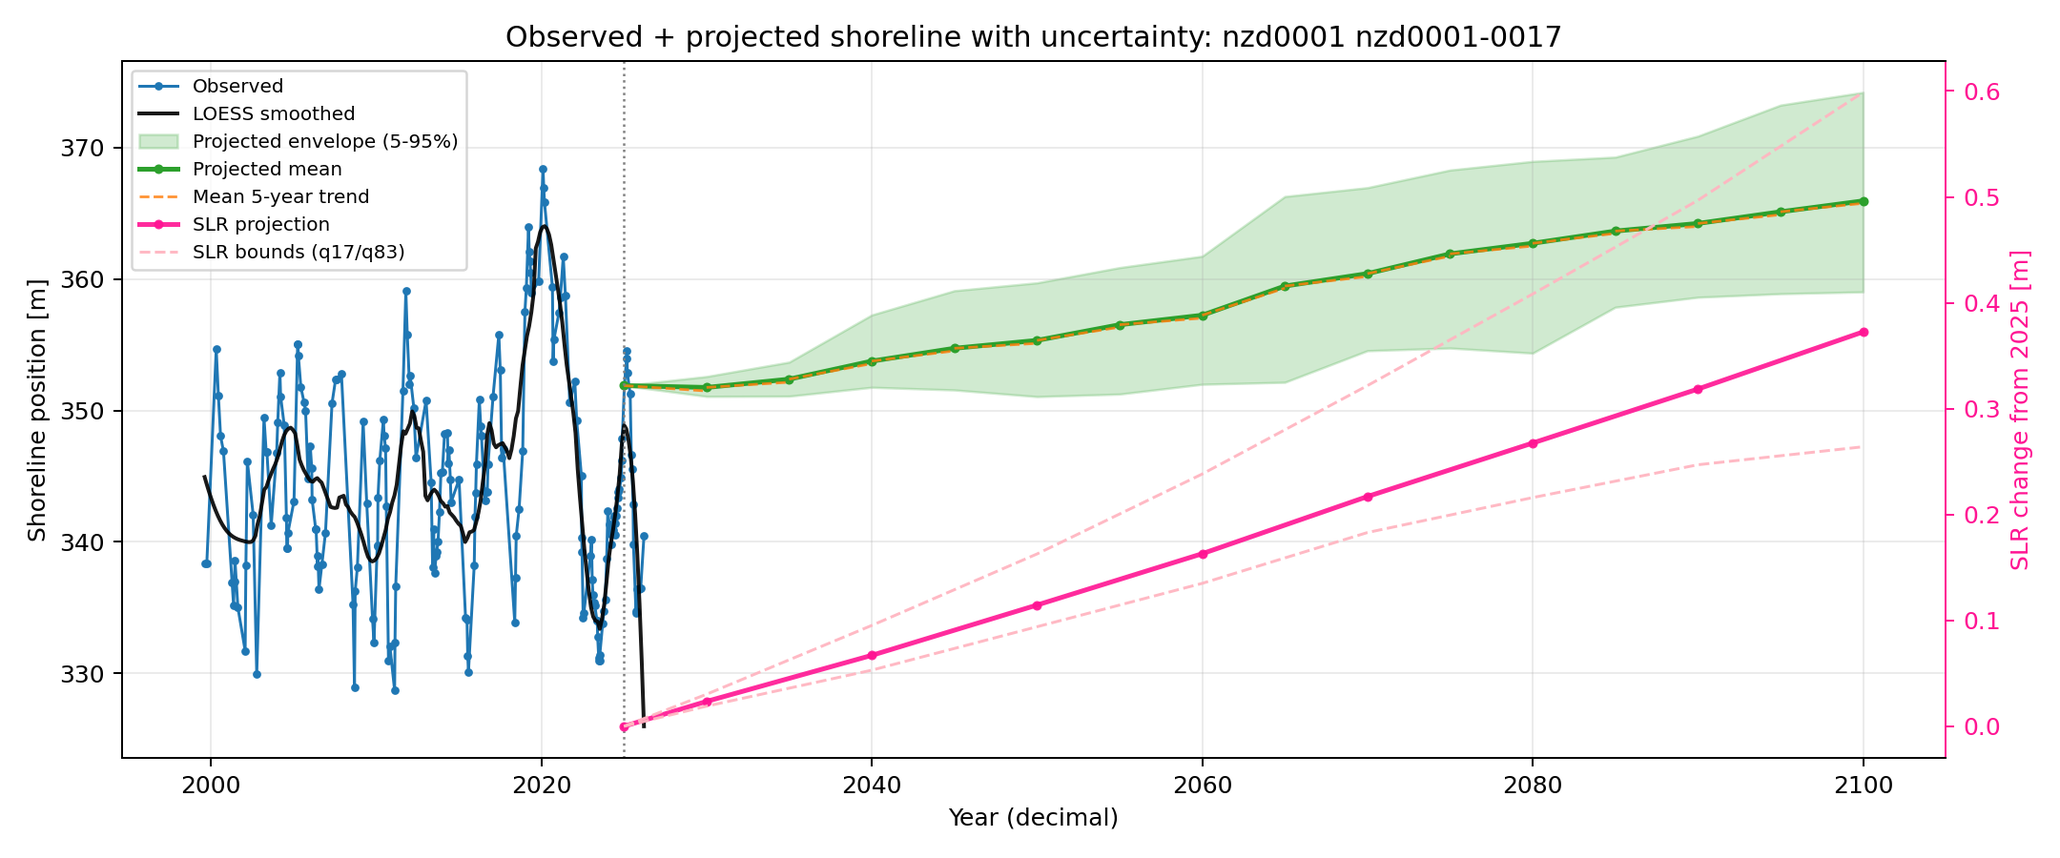
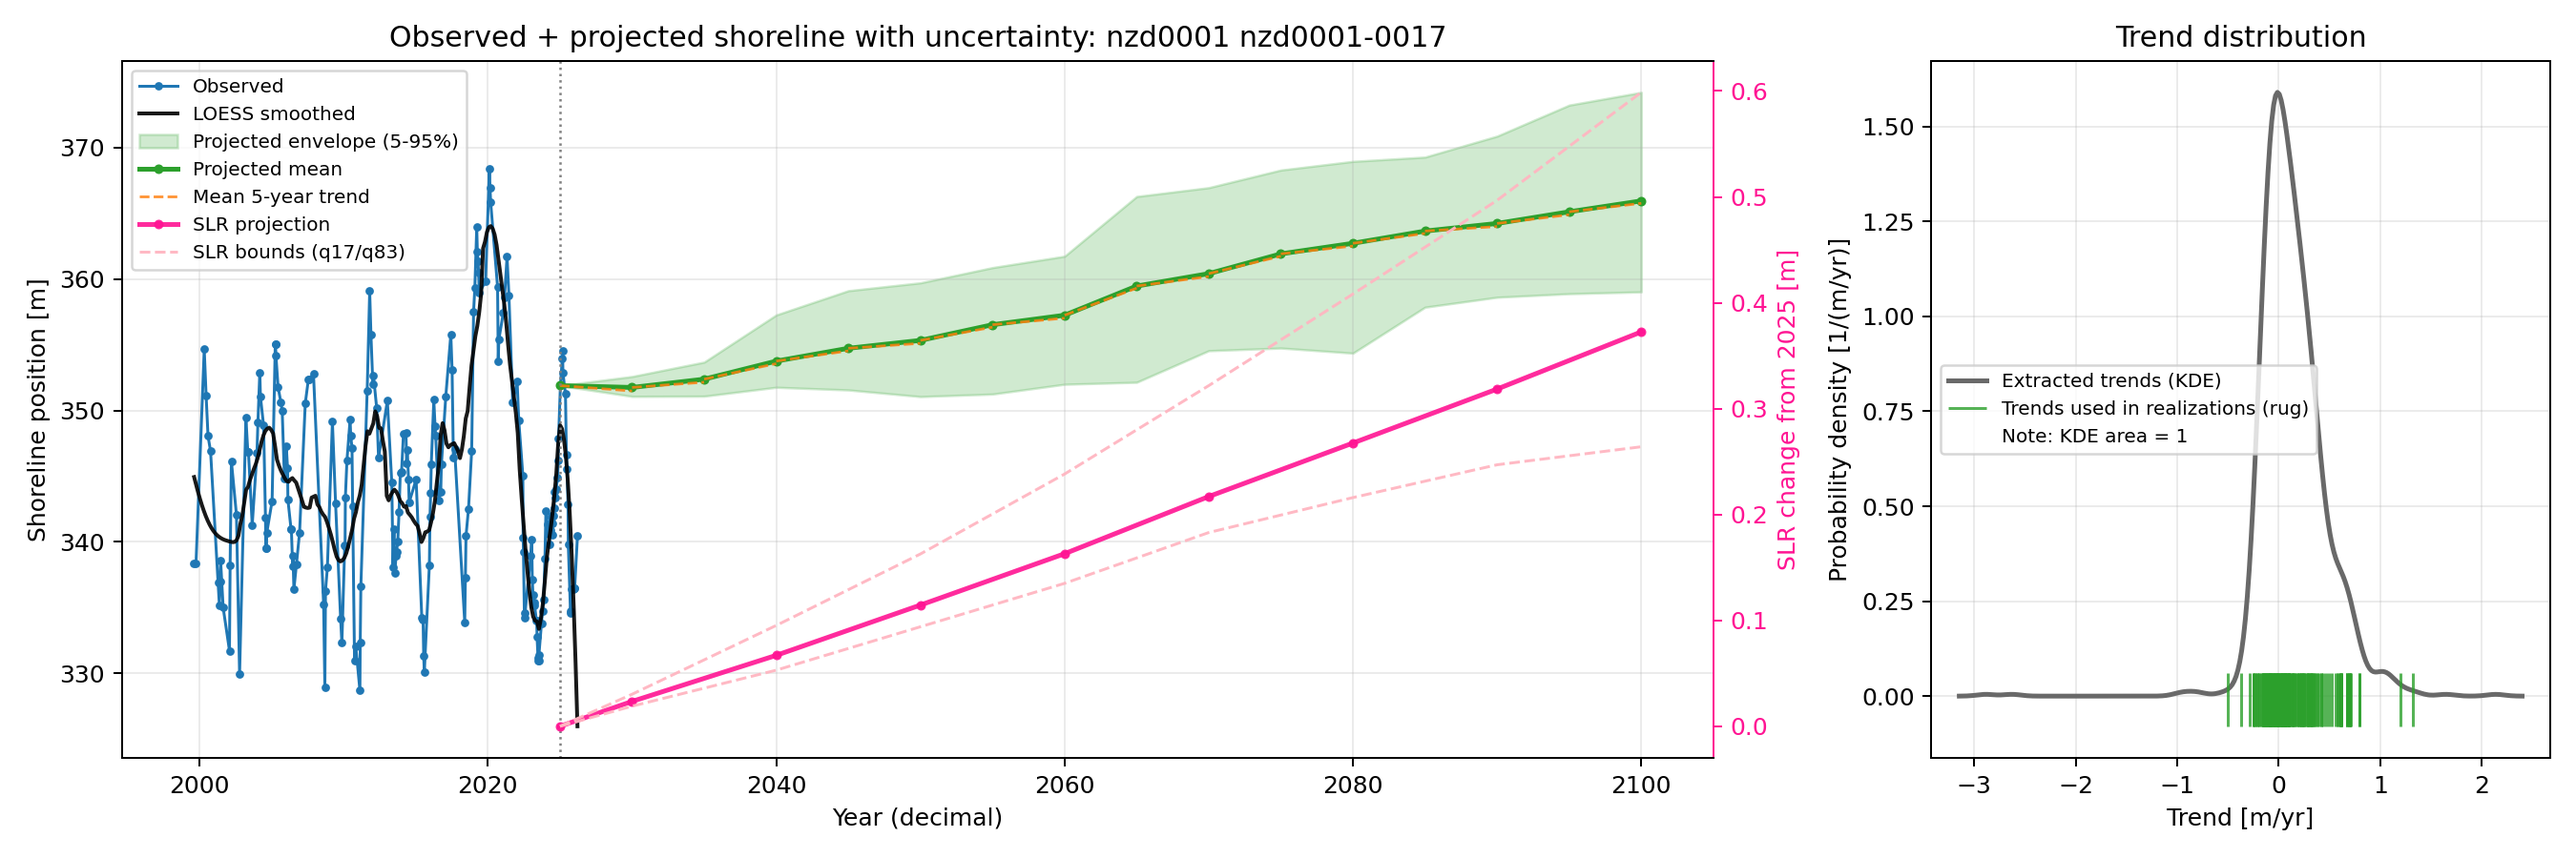
added KDE curve and used trend values (rug)

diff --git a/viz.py b/viz.py
@@ -20,6 +20,7 @@ def plot_observed_and_projected_single_run(
     out_fp,
     t_loess=None,
     y_loess=None,
+    trend_pool=None,
 ):
     """Plot observed shoreline and projected trajectories.
 
@@ -43,6 +44,9 @@ def plot_observed_and_projected_single_run(
     slr_q17_values = np.asarray(slr_q17_values, dtype=float).ravel()
     slr_q50_values = np.asarray(slr_q50_values, dtype=float).ravel()
     slr_q83_values = np.asarray(slr_q83_values, dtype=float).ravel()
+    if trend_pool is not None:
+        trend_pool = np.asarray(trend_pool, dtype=float).ravel()
+        trend_pool = trend_pool[np.isfinite(trend_pool)]
 
     if t_obs.size == 0 or y_obs.size == 0:
         raise ValueError("Observed time series is empty.")
@@ -111,7 +115,12 @@ def plot_observed_and_projected_single_run(
     seg_start_shoreline = baseline_y + np.concatenate(([0.0], np.cumsum(dy_mean)[:-1]))
     r_mean = np.mean(r_matrix, axis=0)
 
-    fig, ax = plt.subplots(figsize=(12, 5))
+    fig, (ax, ax_trend) = plt.subplots(
+        1,
+        2,
+        figsize=(15, 5),
+        gridspec_kw={"width_ratios": [3.6, 1.4]},
+    )
     ax.plot(t_obs, y_obs, color="tab:blue", marker="o", markersize=2.5, linewidth=1.2, label="Observed")
     if t_loess is not None and t_loess.size > 0:
         ax.plot(
@@ -214,6 +223,59 @@ def plot_observed_and_projected_single_run(
     ax.set_ylabel("Shoreline position [m]")
     ax.set_title(f"Observed + projected shoreline with uncertainty: {site_id} {transect_id}")
     ax.grid(alpha=0.25)
+
+    # Right subplot: trend distribution from bootstrap, with sampled realization trends highlighted.
+    used_trends = r_matrix.ravel()
+    used_trends = used_trends[np.isfinite(used_trends)]
+    all_trends = used_trends if trend_pool is None else trend_pool
+
+    if all_trends.size > 0:
+        if all_trends.size == 1 or np.allclose(np.std(all_trends), 0.0):
+            ax_trend.axvline(
+                float(np.mean(all_trends)),
+                color="gray",
+                linewidth=2.0,
+                label="Extracted trends (degenerate)",
+            )
+        else:
+            # Gaussian KDE with Silverman's rule-of-thumb bandwidth.
+            n_all = all_trends.size
+            sigma_all = float(np.std(all_trends, ddof=1))
+            bw = 1.06 * sigma_all * (n_all ** (-1.0 / 5.0))
+            bw = max(bw, 1e-6)
+            x_lo = float(np.min(all_trends) - 3.0 * bw)
+            x_hi = float(np.max(all_trends) + 3.0 * bw)
+            x_grid = np.linspace(x_lo, x_hi, 300)
+            z = (x_grid[:, np.newaxis] - all_trends[np.newaxis, :]) / bw
+            kde = np.exp(-0.5 * z * z).sum(axis=1) / (n_all * bw * np.sqrt(2.0 * np.pi))
+            ax_trend.plot(
+                x_grid,
+                kde,
+                color="dimgray",
+                linewidth=2.0,
+                label="Extracted trends (KDE)",
+            )
+    if used_trends.size > 0:
+        # Rug ticks for sampled trends used in realizations.
+        y_min, y_max = ax_trend.get_ylim()
+        rug_bottom = y_min
+        rug_top = y_min + 0.08 * (y_max - y_min if y_max > y_min else 1.0)
+        ax_trend.vlines(
+            used_trends,
+            rug_bottom,
+            rug_top,
+            color="tab:green",
+            alpha=0.8,
+            linewidth=1.2,
+            label="Trends used in realizations (rug)",
+        )
+
+    ax_trend.set_xlabel("Trend [m/yr]")
+    ax_trend.set_ylabel("Probability density [1/(m/yr)]")
+    ax_trend.set_title("Trend distribution")
+    ax_trend.grid(alpha=0.25)
+    ax_trend.plot([], [], " ", label="Note: KDE area = 1")
+    ax_trend.legend(loc="best", fontsize=8)
 
     handles, labels = ax.get_legend_handles_labels()
     if ax_slr is not None:

diff --git a/trend_uncertainty.py b/trend_uncertainty.py
@@ -909,6 +909,7 @@ for site_id in nzd_sites_trial:
             site_id=site_id,
             transect_id=transect_id,
             out_fp=preview_ts_plot_fp,
+            trend_pool=boot_slopes,
         )
 
         print(site_id, transect_id)
